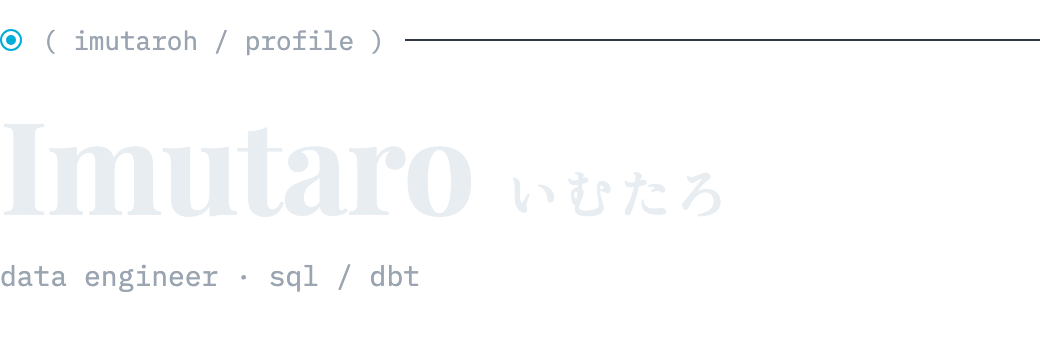
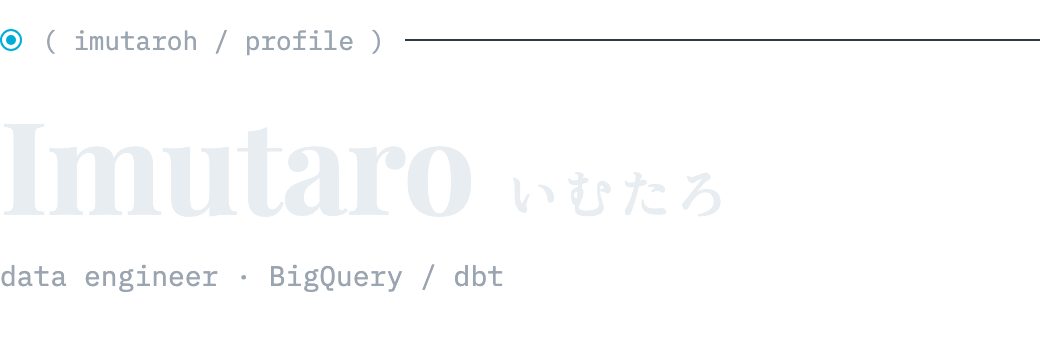
題字の下の一行を BigQuery / dbt にする
imutaro.com と同じく、SQL ではなく実際に使っている製品名を書く。

Changed region(s): [[0.2462, 0.7647, 0.4923, 0.8529]]

diff --git a/README.md b/README.md
@@ -5,7 +5,7 @@
 
 <picture>
   <source media="(prefers-color-scheme: dark)" srcset="./assets/title-dark.png">
-  <img width="430" src="./assets/title-light.png" alt="Imutaro いむたろ / data engineer · sql / dbt">
+  <img width="430" src="./assets/title-light.png" alt="Imutaro いむたろ / data engineer · BigQuery / dbt">
 </picture>
 
 データまわりのエンジニアです。<br>
